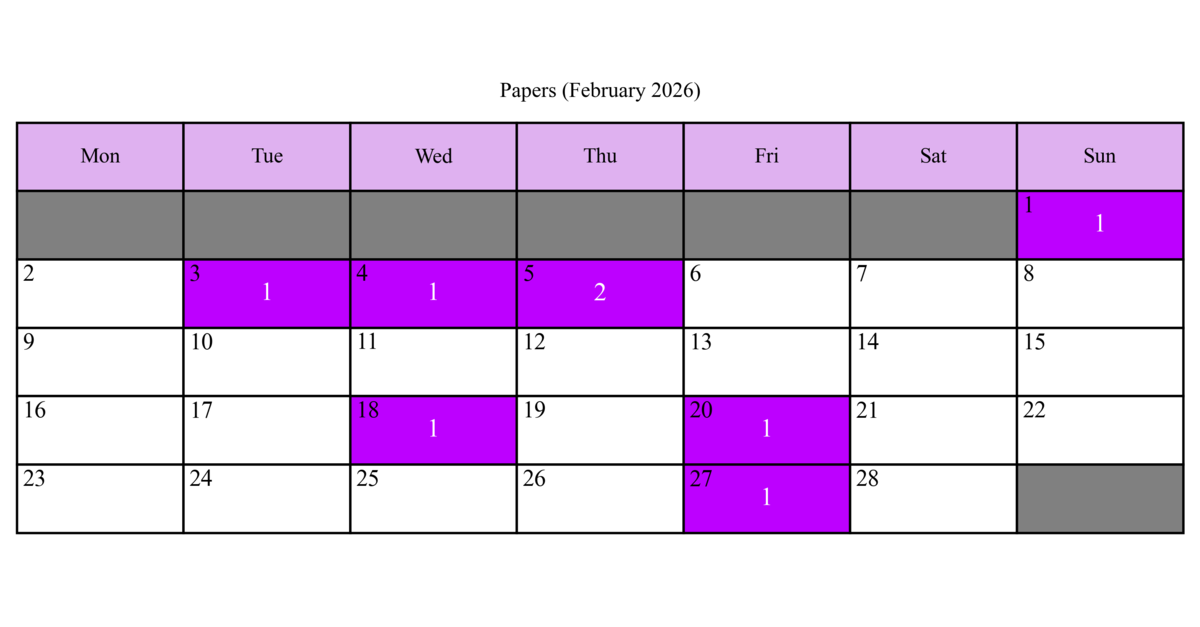
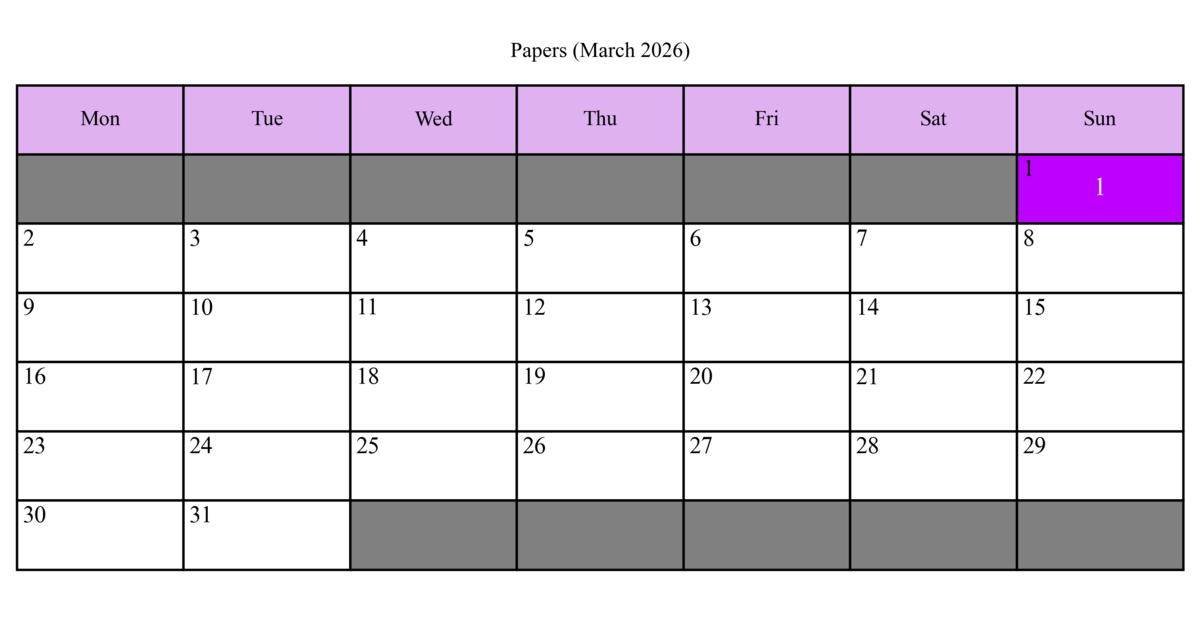
(Automated) updated paper log: March 02, 2026

diff --git a/papers/index.html b/papers/index.html
@@ -29,11 +29,12 @@
       <div class="main-content">
         <div class="main-section">
           <!-- <summary_text> -->
-<p>This is where I log the papers I've read this year. My goal for 2026 is to read 300 papers. By the time this document was last updated (<b>February 27, 2026</b>), I have read <b>22 papers</b> this year. I should have read <b>47 papers</b> by this time, meaning I am <b>25 papers behind schedule</b>.</p>
+<p>This is where I log the papers I've read this year. My goal for 2026 is to read 300 papers. By the time this document was last updated (<b>March 02, 2026</b>), I have read <b>23 papers</b> this year. I should have read <b>48 papers</b> by this time, meaning I am <b>25 papers behind schedule</b>.</p>
           <!-- </summary_text> -->
           <p><img src="cal.png" style="width: 100%;" alt="A monthly calendar depicting the following tabular data graphically."></p>
           <!-- <paper_table> -->
 <table>
+  <tr><td>3/1/26</td><td>big.VLITTLE: On-Demand Data-Parallel Acceleration for Mobile Systems on Chip</td><td><a href="https://ieeexplore.ieee.org/document/9923890" target="_parent">Link</a></td><td>Cornell University, MICRO, 2022</td></tr>
   <tr><td>2/27/26</td><td>Synthesizing optimal collective algorithms</td><td><a href="https://dl.acm.org/doi/abs/10.1145/3437801.3441620" target="_parent">Link</a></td><td>Microsoft Research, PPoPP, 2021</td></tr>
   <tr><td>2/20/26</td><td>Computing the Full Earth System at 1km Resolution</td><td><a href="https://dl.acm.org/doi/10.1145/3712285.3771789" target="_parent">Link</a></td><td>Max Planck Institute for Meteorology, SC, 2025</td></tr>
   <tr><td>2/18/26</td><td>The Memory Processing Unit: A Generalized Interface for End-to-End In-Memory Execution</td><td><a href="https://ghose.cs.illinois.edu/papers/26hpca_mpu.pdf" target="_parent">Link</a></td><td>University of Illinois, HPCA, 2026</td></tr>
@@ -70,7 +71,7 @@
       <!-- <last_updated_text> --> 
 <div class="last-updated">
   <p class="last-updated-text">
-    Last updated: February 27, 2026 at 16:04 UTC.
+    Last updated: March 02, 2026 at 02:03 UTC.
   </p>
 </div>
 
